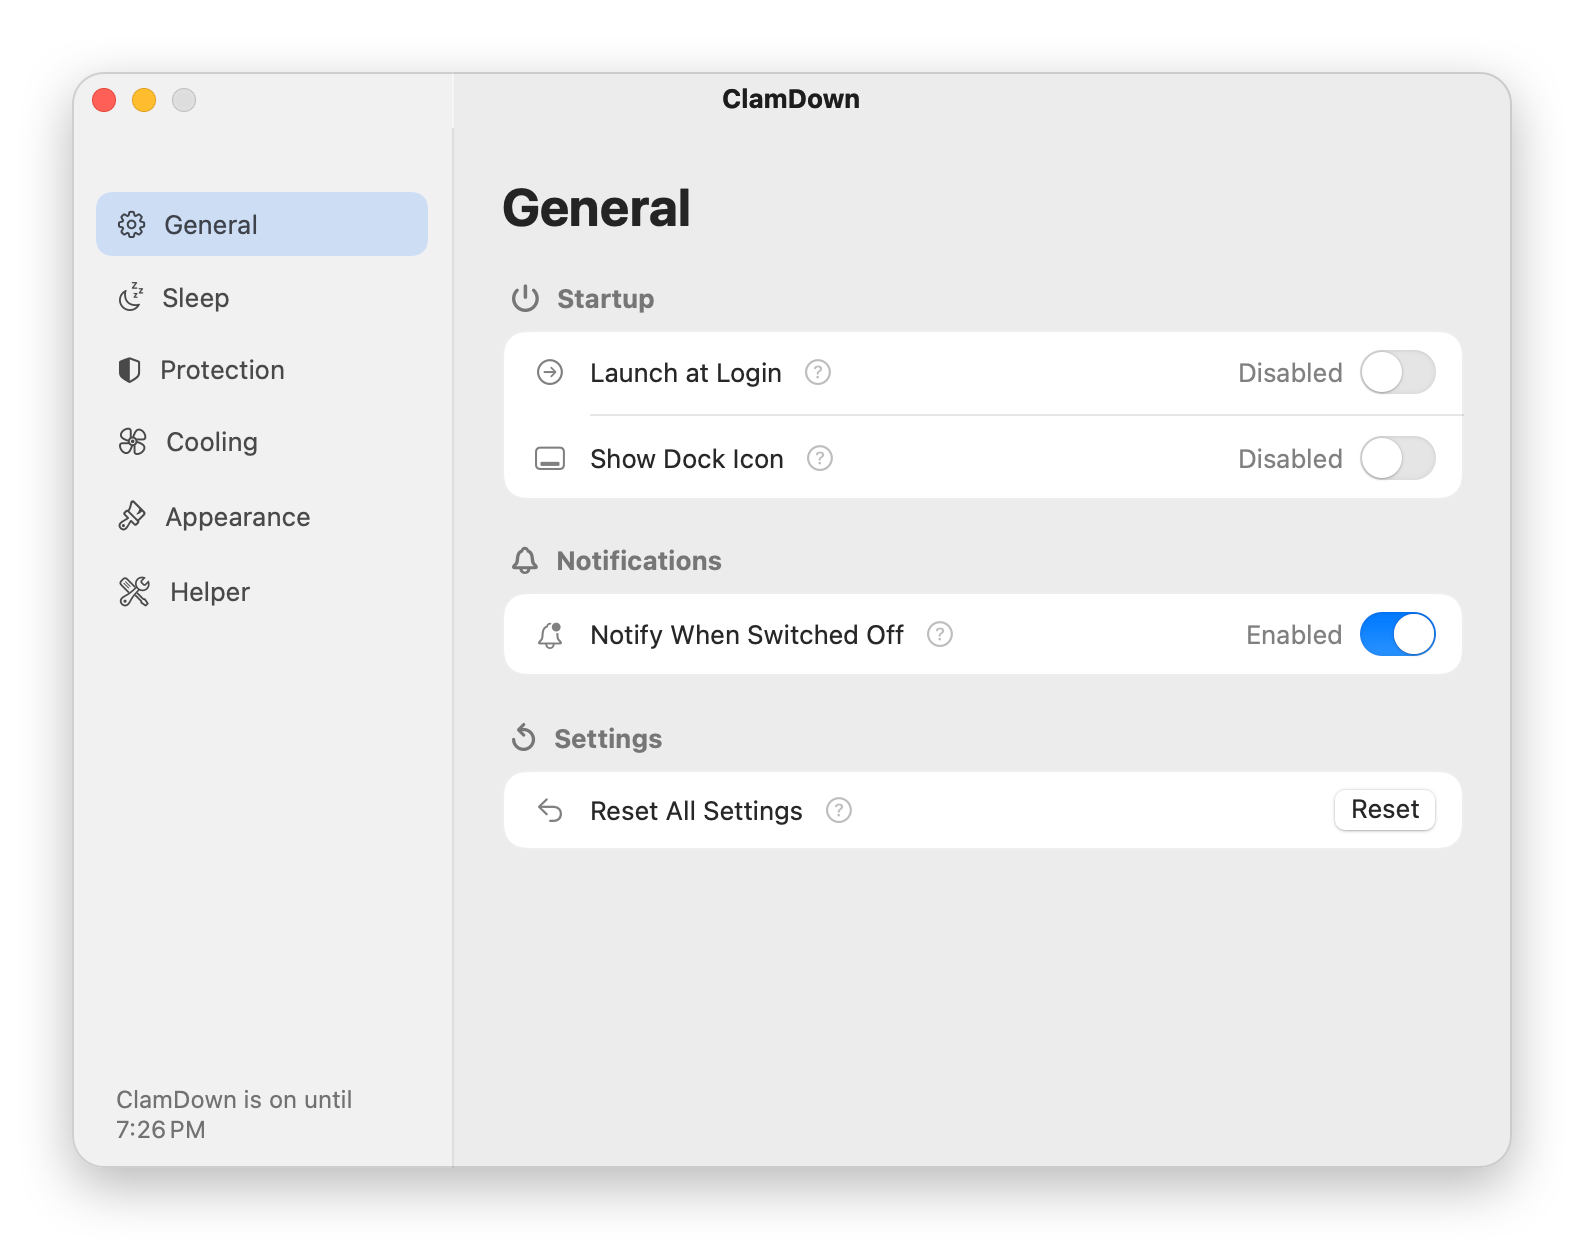
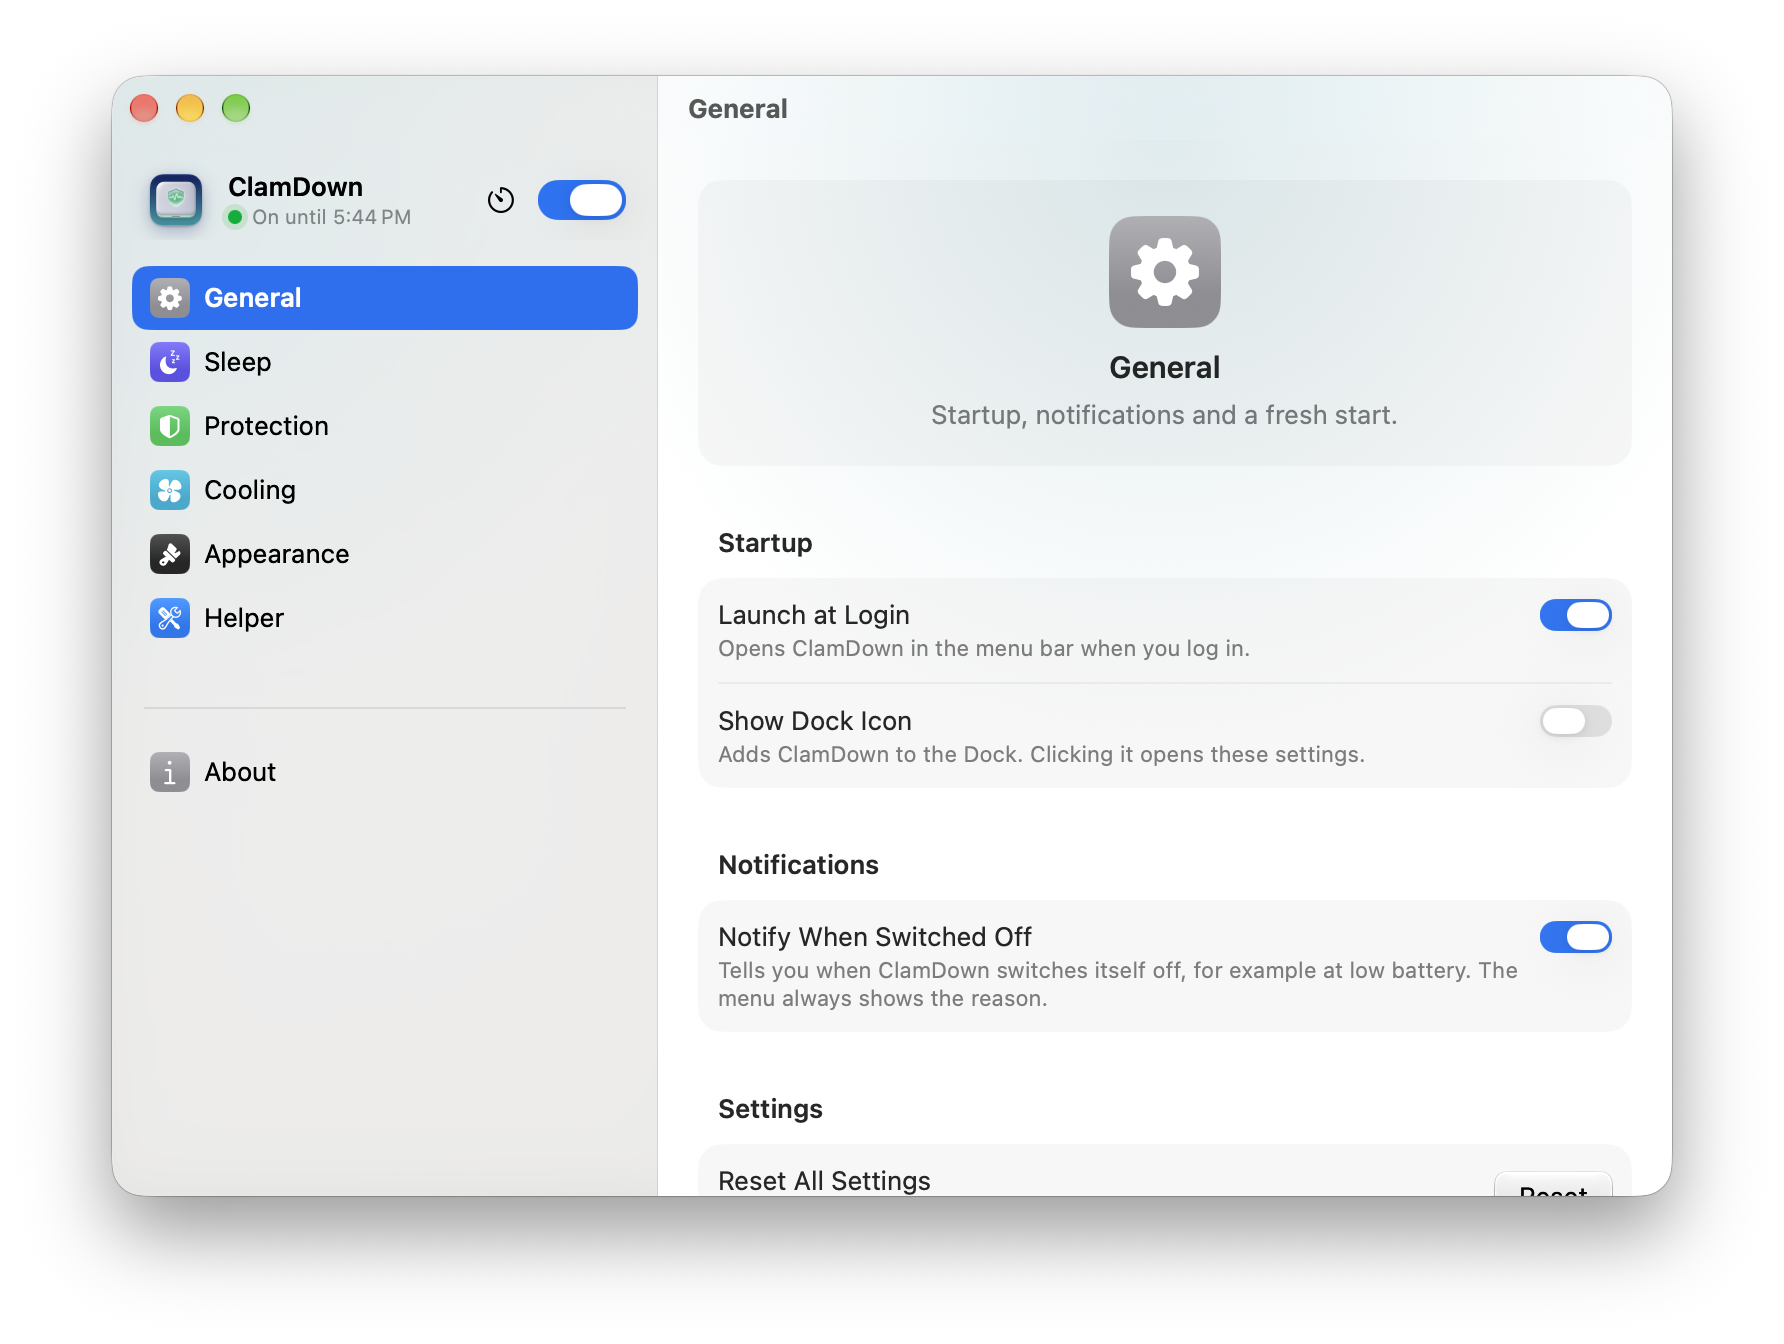
docs: reshoot the settings screenshots in the new design, from a live window with the sidebar's glass
Taken with -settingsShotLive: ClamDown on for two hours with steady readings. The alt texts now name what each
picture shows; the Cooling picture ends at the curve chart, so it no longer mentions the readings below it.

diff --git a/website/index.html b/website/index.html
@@ -367,22 +367,22 @@
           <h2>Every rule is a setting you can see</h2>
           <div class="screens__tabs" role="tablist" aria-label="Settings pages" aria-orientation="vertical">
             <button type="button" role="tab" id="tab-cooling" aria-selected="true" aria-controls="screens-panel" data-light="assets/screens/cooling-light.webp" data-dark="assets/screens/cooling-dark.webp"
-                    data-alt="ClamDown Cooling settings: the Fan Control switch, the fan curve chart, the CPU temperature, each fan’s speed, and who controls the fans.">
+                    data-alt="ClamDown Cooling settings: Fan Control set to With Lid Closed, and the fan curve chart with the temperature now.">
               <strong>Cooling</strong>
               <span>Fan Control, the fan curve, the CPU temperature, each fan’s speed and who drives the fans right now.</span>
             </button>
             <button type="button" role="tab" id="tab-protection" aria-selected="false" aria-controls="screens-panel" data-light="assets/screens/protection-light.webp" data-dark="assets/screens/protection-dark.webp" tabindex="-1"
-                    data-alt="ClamDown Protection settings: switch off at 10% battery, and switch off when the thermal state reaches Serious.">
+                    data-alt="ClamDown Protection settings: switch off at 10% battery, when the thermal state reaches Serious, and when the battery stays hot.">
               <strong>Protection</strong>
               <span>Battery and heat cut-offs that let the Mac sleep before either becomes a problem.</span>
             </button>
             <button type="button" role="tab" id="tab-sleep" aria-selected="false" aria-controls="screens-panel" data-light="assets/screens/sleep-light.webp" data-dark="assets/screens/sleep-dark.webp" tabindex="-1"
-                    data-alt="ClamDown Sleep settings: the switch-off timer, switch off when unplugged, lock screen when closed, and Low Power Mode on battery.">
+                    data-alt="ClamDown Sleep settings: the switch-off timer, switch off when unplugged, and lock screen when closed.">
               <strong>Sleep</strong>
               <span>A timer, an unplug rule, a screen lock when the lid closes and Low Power Mode on battery.</span>
             </button>
             <button type="button" role="tab" id="tab-general" aria-selected="false" aria-controls="screens-panel" data-light="assets/screens/general-light.webp" data-dark="assets/screens/general-dark.webp" tabindex="-1"
-                    data-alt="ClamDown General settings: launch at login, Dock icon, notifications and reset.">
+                    data-alt="ClamDown General settings: launch at login, Dock icon and notifications.">
               <strong>General</strong>
               <span>Launch at login, the Dock icon and notifications when ClamDown switches itself off.</span>
             </button>
@@ -391,8 +391,8 @@
         <figure class="screens__shot" id="screens-panel" role="tabpanel" aria-labelledby="tab-cooling">
           <picture>
             <source media="(prefers-color-scheme: dark)" srcset="assets/screens/cooling-dark.webp" data-shot-dark>
-            <img src="assets/screens/cooling-light.webp" width="1200" height="940" loading="lazy" data-shot-img
-                 alt="ClamDown Cooling settings: the Fan Control switch, the fan curve chart, the CPU temperature, each fan’s speed, and who controls the fans.">
+            <img src="assets/screens/cooling-light.webp" width="1200" height="905" loading="lazy" data-shot-img
+                 alt="ClamDown Cooling settings: Fan Control set to With Lid Closed, and the fan curve chart with the temperature now.">
           </picture>
         </figure>
       </div>

diff --git a/README.md b/README.md
@@ -31,7 +31,7 @@ No more carrying the laptop half-open with a thumb in the hinge, and no paid clo
 <p align="center">
   <picture>
     <source media="(prefers-color-scheme: dark)" srcset="docs/screenshots/cooling-dark.png">
-    <img src="docs/screenshots/cooling-light.png" width="49%" alt="Cooling settings: Fan Control, the fan curve chart, CPU temperature and fan speeds">
+    <img src="docs/screenshots/cooling-light.png" width="49%" alt="Cooling settings: Fan Control and the fan curve chart">
   </picture>
   <picture>
     <source media="(prefers-color-scheme: dark)" srcset="docs/screenshots/protection-dark.png">
@@ -41,7 +41,7 @@ No more carrying the laptop half-open with a thumb in the hinge, and no paid clo
 <p align="center">
   <picture>
     <source media="(prefers-color-scheme: dark)" srcset="docs/screenshots/sleep-dark.png">
-    <img src="docs/screenshots/sleep-light.png" width="49%" alt="Sleep settings: timer, lock screen when closed, Low Power Mode">
+    <img src="docs/screenshots/sleep-light.png" width="49%" alt="Sleep settings: timer, unplug rule, lock screen when closed">
   </picture>
   <picture>
     <source media="(prefers-color-scheme: dark)" srcset="docs/screenshots/general-dark.png">
